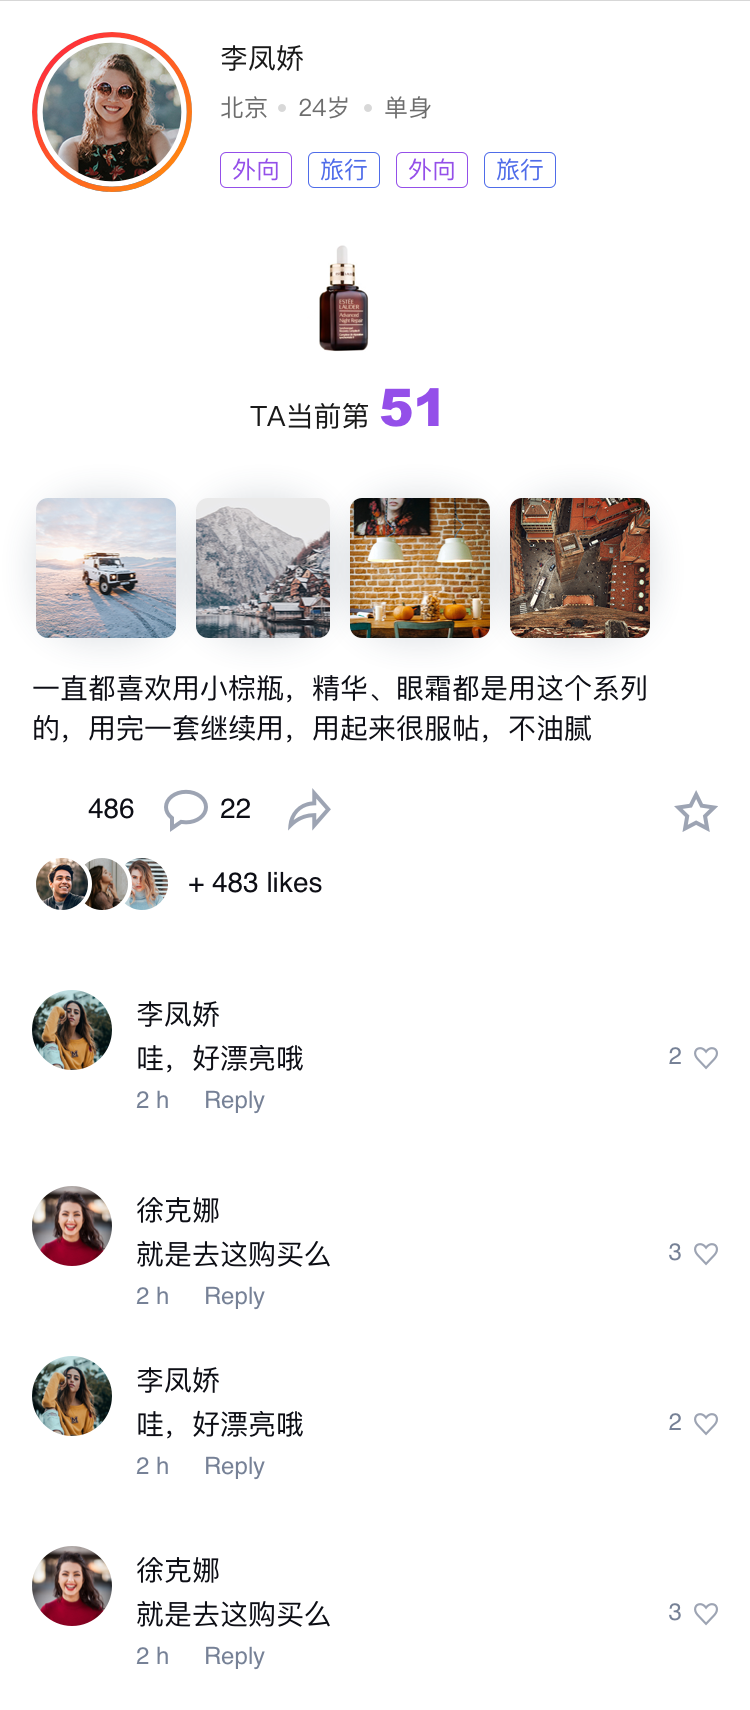
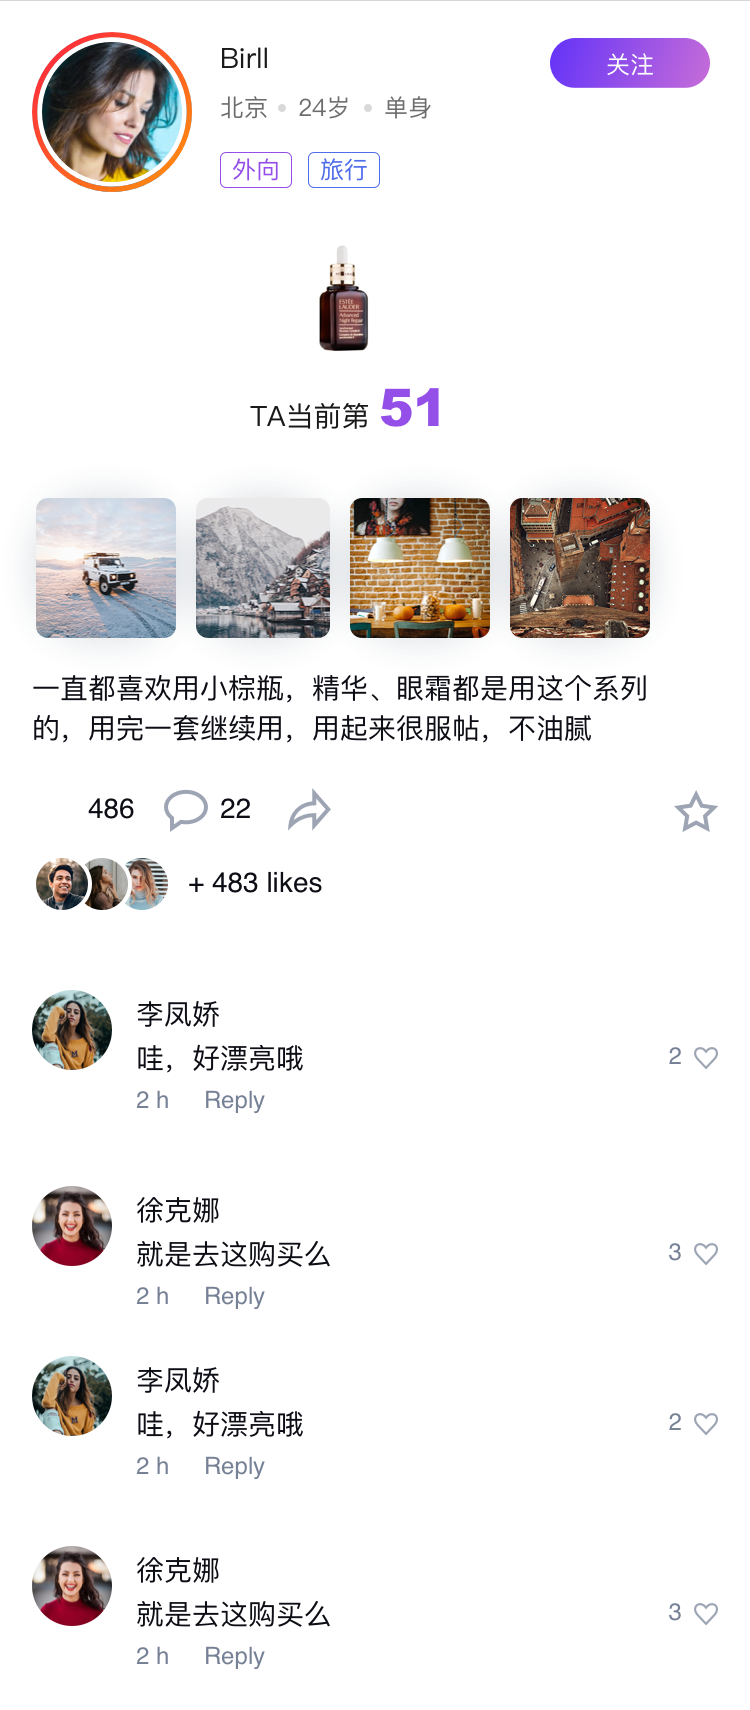
图片更换

diff --git a/src/views/components/concernList.vue b/src/views/components/concernList.vue
@@ -8,7 +8,7 @@
     >
       <div class="clearfix">
         <img
-          src="@/assets/Photo.png"
+          :src="item.head_img"
           style="border-radius: 50%"
           class="fl big-img"
           width="120px"
@@ -26,7 +26,7 @@
             <img
               v-for="(img,index) in item.imgs"
               :key="index"
-              src="@/assets/Photo.png"
+              :src="img"
               class="small-img"
             >
           </p>
@@ -44,7 +44,16 @@
 export default {
   data () {
     return {
-      items: [{ "activityId": 129, "add": "北京", "age": 47, "content": "good", "create": 1576944547088, "head_img": "adasda", "id": 966, "imgs": ["asdasda"], "inSimilar": 85.0, "interest": ["asdasda"], "likes": 25, "name": "Birll", "replies": 19, "sex": 0, "shopSimilar": 86.0, "skuId": 352, "userId": 940 }, { "activityId": 490, "add": "北京", "age": 19, "content": "good", "create": 1576944547088, "head_img": "adasda", "id": 408, "imgs": ["asdasda"], "inSimilar": 92.0, "interest": ["asdasda"], "likes": 32, "name": "Birll", "replies": 43, "sex": 0, "shopSimilar": 83.0, "skuId": 313, "userId": 811 }, { "activityId": 734, "add": "北京", "age": 8, "content": "good", "create": 1576944547088, "head_img": "adasda", "id": 443, "imgs": ["asdasda"], "inSimilar": 99.0, "interest": ["asdasda"], "likes": 12, "name": "Birll", "replies": 42, "sex": 0, "shopSimilar": 92.0, "skuId": 738, "userId": 529 }, { "activityId": 980, "add": "北京", "age": 30, "content": "good", "create": 1576944547088, "head_img": "adasda", "id": 601, "imgs": ["asdasda"], "inSimilar": 97.0, "interest": ["asdasda"], "likes": 47, "name": "Birll", "replies": 18, "sex": 0, "shopSimilar": 83.0, "skuId": 444, "userId": 486 }, { "activityId": 150, "add": "北京", "age": 49, "content": "good", "create": 1576944547088, "head_img": "adasda", "id": 463, "imgs": ["asdasda"], "inSimilar": 99.0, "interest": ["asdasda"], "likes": 39, "name": "Birll", "replies": 30, "sex": 0, "shopSimilar": 96.0, "skuId": 816, "userId": 469 }, { "activityId": 431, "add": "北京", "age": 33, "content": "good", "create": 1576944547088, "head_img": "adasda", "id": 264, "imgs": ["asdasda"], "inSimilar": 86.0, "interest": ["asdasda"], "likes": 49, "name": "Birll", "replies": 0, "sex": 0, "shopSimilar": 91.0, "skuId": 246, "userId": 827 }, { "activityId": 78, "add": "北京", "age": 6, "content": "good", "create": 1576944547088, "head_img": "adasda", "id": 355, "imgs": ["asdasda"], "inSimilar": 95.0, "interest": ["asdasda"], "likes": 22, "name": "Birll", "replies": 36, "sex": 0, "shopSimilar": 98.0, "skuId": 366, "userId": 645 }, { "activityId": 392, "add": "北京", "age": 9, "content": "good", "create": 1576944547088, "head_img": "adasda", "id": 49, "imgs": ["asdasda"], "inSimilar": 89.0, "interest": ["asdasda"], "likes": 6, "name": "Birll", "replies": 3, "sex": 0, "shopSimilar": 84.0, "skuId": 329, "userId": 465 }, { "activityId": 562, "add": "北京", "age": 49, "content": "good", "create": 1576944547088, "head_img": "adasda", "id": 652, "imgs": ["asdasda"], "inSimilar": 83.0, "interest": ["asdasda"], "likes": 43, "name": "Birll", "replies": 44, "sex": 0, "shopSimilar": 93.0, "skuId": 961, "userId": 703 }, { "activityId": 727, "add": "北京", "age": 19, "content": "good", "create": 1576944547088, "head_img": "adasda", "id": 150, "imgs": ["asdasda"], "inSimilar": 89.0, "interest": ["asdasda"], "likes": 38, "name": "Birll", "replies": 39, "sex": 0, "shopSimilar": 88.0, "skuId": 72, "userId": 797 }]
+      items: [{ "activityId": 129, "add": "北京", "age": 47, "content": "good", "create": 1576944547088, "head_img": "//img10.360buyimg.com/imgzone/jfs/t1/90627/37/7908/91546/5dff03e2E1f2f7cc5/6b0aaf8cc1fd65d8.png", "id": 966, "imgs": ["//img10.360buyimg.com/imgzone/jfs/t1/106722/5/7822/206462/5dfee79aE229c9e03/2f50b45685a2224e.png", "//img10.360buyimg.com/imgzone/jfs/t1/101916/29/7770/180838/5dfee799E939063ce/42c71f3752b6dc19.png"], "inSimilar": 85.0, "interest": ["外向", "旅行"], "likes": 25, "name": "Birll", "replies": 19, "sex": 0, "shopSimilar": 86.0, "skuId": 352, "userId": 940 },
+      { "activityId": 490, "add": "北京", "age": 19, "content": "good", "create": 1576944547088, "head_img": "//img10.360buyimg.com/imgzone/jfs/t1/108394/15/1587/78802/5dfee893E09503e3e/022a25ada3be68e1.png", "id": 408, "imgs": ["//img10.360buyimg.com/imgzone/jfs/t1/95093/28/7766/151753/5dfee798E02490680/72990afc50c1bd3c.png", "//img10.360buyimg.com/imgzone/jfs/t1/101916/29/7770/180838/5dfee799E939063ce/42c71f3752b6dc19.png"], "inSimilar": 92.0, "interest": ["外向", "旅行"], "likes": 32, "name": "Birll", "replies": 43, "sex": 0, "shopSimilar": 83.0, "skuId": 313, "userId": 811 },
+      { "activityId": 734, "add": "北京", "age": 8, "content": "good", "create": 1576944547088, "head_img": "//img10.360buyimg.com/imgzone/jfs/t1/108894/29/1624/96030/5dfee893E13a67a6c/2d16109919f23173.png", "id": 443, "imgs": ["//img10.360buyimg.com/imgzone/jfs/t1/106722/5/7822/206462/5dfee79aE229c9e03/2f50b45685a2224e.png", "//img10.360buyimg.com/imgzone/jfs/t1/101916/29/7770/180838/5dfee799E939063ce/42c71f3752b6dc19.png"], "inSimilar": 99.0, "interest": ["外向"], "likes": 12, "name": "Birll", "replies": 42, "sex": 0, "shopSimilar": 92.0, "skuId": 738, "userId": 529 },
+      { "activityId": 980, "add": "北京", "age": 30, "content": "good", "create": 1576944547088, "head_img": "//img10.360buyimg.com/imgzone/jfs/t1/108394/15/1587/78802/5dfee893E09503e3e/022a25ada3be68e1.png", "id": 601, "imgs": ["//img10.360buyimg.com/imgzone/jfs/t1/106722/5/7822/206462/5dfee79aE229c9e03/2f50b45685a2224e.png"], "inSimilar": 97.0, "interest": ["asdasda"], "likes": 47, "name": "Birll", "replies": 18, "sex": 0, "shopSimilar": 83.0, "skuId": 444, "userId": 486 },
+      { "activityId": 150, "add": "北京", "age": 49, "content": "good", "create": 1576944547088, "head_img": "//img10.360buyimg.com/imgzone/jfs/t1/90627/37/7908/91546/5dff03e2E1f2f7cc5/6b0aaf8cc1fd65d8.png", "id": 463, "imgs": ["//img10.360buyimg.com/imgzone/jfs/t1/102639/15/7723/206163/5dfee799Ebb832171/9ec51345ec2ec33f.png", "//img10.360buyimg.com/imgzone/jfs/t1/104453/34/7901/91677/5dfee798E28a5ae55/749f2f1be178f0f6.png"], "inSimilar": 99.0, "interest": ["外向", "旅行"], "likes": 39, "name": "Birll", "replies": 30, "sex": 0, "shopSimilar": 96.0, "skuId": 816, "userId": 469 },
+      { "activityId": 431, "add": "北京", "age": 33, "content": "good", "create": 1576944547088, "head_img": "//img10.360buyimg.com/imgzone/jfs/t1/108894/29/1624/96030/5dfee893E13a67a6c/2d16109919f23173.png", "id": 264, "imgs": ["//img10.360buyimg.com/imgzone/jfs/t1/104453/34/7901/91677/5dfee798E28a5ae55/749f2f1be178f0f6.png"], "inSimilar": 86.0, "interest": ["asdasda"], "likes": 49, "name": "Birll", "replies": 0, "sex": 0, "shopSimilar": 91.0, "skuId": 246, "userId": 827 },
+      { "activityId": 78, "add": "北京", "age": 6, "content": "good", "create": 1576944547088, "head_img": "//img10.360buyimg.com/imgzone/jfs/t1/108394/15/1587/78802/5dfee893E09503e3e/022a25ada3be68e1.png", "id": 355, "imgs": ["//img10.360buyimg.com/imgzone/jfs/t1/106722/5/7822/206462/5dfee79aE229c9e03/2f50b45685a2224e.png", "//img10.360buyimg.com/imgzone/jfs/t1/101916/29/7770/180838/5dfee799E939063ce/42c71f3752b6dc19.png"], "inSimilar": 95.0, "interest": ["外向", "旅行"], "likes": 22, "name": "Birll", "replies": 36, "sex": 0, "shopSimilar": 98.0, "skuId": 366, "userId": 645 },
+      { "activityId": 392, "add": "北京", "age": 9, "content": "good", "create": 1576944547088, "head_img": "//img10.360buyimg.com/imgzone/jfs/t1/108894/29/1624/96030/5dfee893E13a67a6c/2d16109919f23173.png", "id": 49, "imgs": ["//img10.360buyimg.com/imgzone/jfs/t1/101916/29/7770/180838/5dfee799E939063ce/42c71f3752b6dc19.png", "//img10.360buyimg.com/imgzone/jfs/t1/101916/29/7770/180838/5dfee799E939063ce/42c71f3752b6dc19.png"], "inSimilar": 89.0, "interest": ["asdasda"], "likes": 6, "name": "Birll", "replies": 3, "sex": 0, "shopSimilar": 84.0, "skuId": 329, "userId": 465 },
+      { "activityId": 562, "add": "北京", "age": 49, "content": "good", "create": 1576944547088, "head_img": "//img10.360buyimg.com/imgzone/jfs/t1/108394/15/1587/78802/5dfee893E09503e3e/022a25ada3be68e1.png", "id": 652, "imgs": ["//img10.360buyimg.com/imgzone/jfs/t1/104453/34/7901/91677/5dfee798E28a5ae55/749f2f1be178f0f6.png", "//img10.360buyimg.com/imgzone/jfs/t1/101916/29/7770/180838/5dfee799E939063ce/42c71f3752b6dc19.png"], "inSimilar": 83.0, "interest": ["asdasda"], "likes": 43, "name": "Birll", "replies": 44, "sex": 0, "shopSimilar": 93.0, "skuId": 961, "userId": 703 },
+      { "activityId": 727, "add": "北京", "age": 19, "content": "good", "create": 1576944547088, "head_img": "//img10.360buyimg.com/imgzone/jfs/t1/108894/29/1624/96030/5dfee893E13a67a6c/2d16109919f23173.png", "id": 150, "imgs": ["//img10.360buyimg.com/imgzone/jfs/t1/106722/5/7822/206462/5dfee79aE229c9e03/2f50b45685a2224e.png", "//img10.360buyimg.com/imgzone/jfs/t1/101916/29/7770/180838/5dfee799E939063ce/42c71f3752b6dc19.png"], "inSimilar": 89.0, "interest": ["asdasda"], "likes": 38, "name": "Birll", "replies": 39, "sex": 0, "shopSimilar": 88.0, "skuId": 72, "userId": 797 }]
     }
   },
   computed: {

diff --git a/src/views/components/homeList.vue b/src/views/components/homeList.vue
@@ -7,7 +7,7 @@
       @click="linkToDetail"
     >
       <img
-        src="@/assets/Photo.png"
+        :src="item.url"
         style="border-radius:4px"
         width="100%"
       >
@@ -42,7 +42,16 @@
 export default {
   data () {
     return {
-      items: [{ "isLike": false, "activityId": 171, "add": "北京", "age": 28, "content": "good", "create": 1576943657490, "head_img": "adasda", "id": 333, "imgs": ["asdasda"], "inSimilar": 85.0, "interest": ["asdasda"], "likes": 43, "name": "Birll", "replies": 28, "sex": 0, "shopSimilar": 93.0, "skuId": 849, "userId": 297 }, { "isLike": false, "activityId": 640, "add": "北京", "age": 40, "content": "good", "create": 1576943657490, "head_img": "adasda", "id": 136, "imgs": ["asdasda"], "inSimilar": 99.0, "interest": ["asdasda"], "likes": 18, "name": "Birll", "replies": 3, "sex": 0, "shopSimilar": 96.0, "skuId": 500, "userId": 316 }, { "isLike": false, "activityId": 264, "add": "北京", "age": 28, "content": "good", "create": 1576943657490, "head_img": "adasda", "id": 206, "imgs": ["asdasda"], "inSimilar": 94.0, "interest": ["asdasda"], "likes": 13, "name": "Birll", "replies": 11, "sex": 0, "shopSimilar": 90.0, "skuId": 217, "userId": 657 }, { "isLike": false, "activityId": 984, "add": "北京", "age": 25, "content": "good", "create": 1576943657490, "head_img": "adasda", "id": 209, "imgs": ["asdasda"], "inSimilar": 80.0, "interest": ["asdasda"], "likes": 29, "name": "Birll", "replies": 37, "sex": 0, "shopSimilar": 93.0, "skuId": 204, "userId": 135 }, { "isLike": false, "activityId": 459, "add": "北京", "age": 15, "content": "good", "create": 1576943657490, "head_img": "adasda", "id": 414, "imgs": ["asdasda"], "inSimilar": 83.0, "interest": ["asdasda"], "likes": 41, "name": "Birll", "replies": 33, "sex": 0, "shopSimilar": 90.0, "skuId": 134, "userId": 593 }, { "isLike": false, "activityId": 955, "add": "北京", "age": 2, "content": "good", "create": 1576943657490, "head_img": "adasda", "id": 539, "imgs": ["asdasda"], "inSimilar": 90.0, "interest": ["asdasda"], "likes": 47, "name": "Birll", "replies": 42, "sex": 0, "shopSimilar": 94.0, "skuId": 807, "userId": 753 }, { "isLike": false, "activityId": 347, "add": "北京", "age": 20, "content": "good", "create": 1576943657490, "head_img": "adasda", "id": 141, "imgs": ["asdasda"], "inSimilar": 96.0, "interest": ["asdasda"], "likes": 33, "name": "Birll", "replies": 25, "sex": 0, "shopSimilar": 92.0, "skuId": 761, "userId": 662 }, { "activityId": 61, "add": "北京", "age": 49, "content": "good", "create": 1576943657490, "head_img": "adasda", "id": 318, "imgs": ["asdasda"], "inSimilar": 94.0, "interest": ["asdasda"], "likes": 41, "name": "Birll", "replies": 48, "sex": 0, "shopSimilar": 87.0, "skuId": 951, "userId": 287 }, { "isLike": false, "activityId": 27, "add": "北京", "age": 20, "content": "good", "create": 1576943657490, "head_img": "adasda", "id": 221, "imgs": ["asdasda"], "inSimilar": 94.0, "interest": ["asdasda"], "likes": 14, "name": "Birll", "replies": 10, "sex": 0, "shopSimilar": 96.0, "skuId": 407, "userId": 603 }, { "activityId": 625, "add": "北京", "age": 26, "content": "good", "create": 1576943657490, "head_img": "adasda", "id": 325, "imgs": ["asdasda"], "inSimilar": 91.0, "interest": ["asdasda"], "likes": 27, "name": "Birll", "replies": 20, "sex": 0, "shopSimilar": 85.0, "skuId": 86, "userId": 504 }]
+      items: [{ "isLike": false, "activityId": 171, "add": "北京", "age": 28, "content": "good", "create": 1576943657490, "head_img": "adasda", "id": 333, "imgs": ["asdasda"], "inSimilar": 85.0, "interest": ["asdasda"], "likes": 43, "name": "Birll", "replies": 28, "sex": 0, "shopSimilar": 93.0, "skuId": 849, "userId": 297, "url": '//img10.360buyimg.com/imgzone/jfs/t1/106722/5/7822/206462/5dfee79aE229c9e03/2f50b45685a2224e.png' },
+      { "isLike": false, "activityId": 640, "add": "北京", "age": 40, "content": "good", "create": 1576943657490, "head_img": "adasda", "id": 136, "imgs": ["asdasda"], "inSimilar": 99.0, "interest": ["asdasda"], "likes": 18, "name": "Birll", "replies": 3, "sex": 0, "shopSimilar": 96.0, "skuId": 500, "userId": 316, "url": '//img10.360buyimg.com/imgzone/jfs/t1/93178/19/7823/227832/5dfee69cE86af7662/79509ed34e3bc3dc.png' },
+      { "isLike": false, "activityId": 264, "add": "北京", "age": 28, "content": "good", "create": 1576943657490, "head_img": "adasda", "id": 206, "imgs": ["asdasda"], "inSimilar": 94.0, "interest": ["asdasda"], "likes": 13, "name": "Birll", "replies": 11, "sex": 0, "shopSimilar": 90.0, "skuId": 217, "userId": 657, "url": '//img10.360buyimg.com/imgzone/jfs/t1/101835/38/7815/252413/5dfee69cE11694e32/d300fa4377236c82.png' },
+      { "isLike": false, "activityId": 984, "add": "北京", "age": 25, "content": "good", "create": 1576943657490, "head_img": "adasda", "id": 209, "imgs": ["asdasda"], "inSimilar": 80.0, "interest": ["asdasda"], "likes": 29, "name": "Birll", "replies": 37, "sex": 0, "shopSimilar": 93.0, "skuId": 204, "userId": 135, "url": '//img10.360buyimg.com/imgzone/jfs/t1/107417/23/1528/279237/5dfee69bE18c60d25/f86821c75cd0b73b.png' },
+      { "isLike": false, "activityId": 459, "add": "北京", "age": 15, "content": "good", "create": 1576943657490, "head_img": "adasda", "id": 414, "imgs": ["asdasda"], "inSimilar": 83.0, "interest": ["asdasda"], "likes": 41, "name": "Birll", "replies": 33, "sex": 0, "shopSimilar": 90.0, "skuId": 134, "userId": 593, "url": '//img10.360buyimg.com/imgzone/jfs/t1/101835/38/7815/252413/5dfee69cE11694e32/d300fa4377236c82.png' },
+      { "isLike": false, "activityId": 955, "add": "北京", "age": 2, "content": "good", "create": 1576943657490, "head_img": "adasda", "id": 539, "imgs": ["asdasda"], "inSimilar": 90.0, "interest": ["asdasda"], "likes": 47, "name": "Birll", "replies": 42, "sex": 0, "shopSimilar": 94.0, "skuId": 807, "userId": 753, "url": '//img10.360buyimg.com/imgzone/jfs/t1/101835/38/7815/252413/5dfee69cE11694e32/d300fa4377236c82.png' },
+      { "isLike": false, "activityId": 347, "add": "北京", "age": 20, "content": "good", "create": 1576943657490, "head_img": "adasda", "id": 141, "imgs": ["asdasda"], "inSimilar": 96.0, "interest": ["asdasda"], "likes": 33, "name": "Birll", "replies": 25, "sex": 0, "shopSimilar": 92.0, "skuId": 761, "userId": 662, "url": '//img10.360buyimg.com/imgzone/jfs/t1/99283/19/7805/212339/5dfee69bEa946af78/90f0b00fdabe5fbf.png' },
+      { "activityId": 61, "add": "北京", "age": 49, "content": "good", "create": 1576943657490, "head_img": "adasda", "id": 318, "imgs": ["asdasda"], "inSimilar": 94.0, "interest": ["asdasda"], "likes": 41, "name": "Birll", "replies": 48, "sex": 0, "shopSimilar": 87.0, "skuId": 951, "userId": 287, "url": '//img10.360buyimg.com/imgzone/jfs/t1/101835/38/7815/252413/5dfee69cE11694e32/d300fa4377236c82.png' },
+      { "isLike": false, "activityId": 27, "add": "北京", "age": 20, "content": "good", "create": 1576943657490, "head_img": "adasda", "id": 221, "imgs": ["asdasda"], "inSimilar": 94.0, "interest": ["asdasda"], "likes": 14, "name": "Birll", "replies": 10, "sex": 0, "shopSimilar": 96.0, "skuId": 407, "userId": 603, "url": '//img10.360buyimg.com/imgzone/jfs/t1/101835/38/7815/252413/5dfee69cE11694e32/d300fa4377236c82.png' },
+      { "activityId": 625, "add": "北京", "age": 26, "content": "good", "create": 1576943657490, "head_img": "adasda", "id": 325, "imgs": ["asdasda"], "inSimilar": 91.0, "interest": ["asdasda"], "likes": 27, "name": "Birll", "replies": 20, "sex": 0, "shopSimilar": 85.0, "skuId": 86, "userId": 504, "url": '//img10.360buyimg.com/imgzone/jfs/t1/95534/18/7835/129851/5dfee69aEaef3b6b2/9d317c1e510b7eec.png' }]
     }
   },
   computed: {

diff --git a/src/views/components/hotList.vue b/src/views/components/hotList.vue
@@ -7,7 +7,7 @@
       @click="linkToDetail"
     >
       <img
-        src="@/assets/Photo.png"
+        :src="item.url"
         width="100%"
         height="170px"
         style="border-radius: 4px"
@@ -27,7 +27,16 @@
 export default {
   data () {
     return {
-      items: [{ "contents": 9, "id": 882, "name": "Zero", "price": 21.0, "url": "adasd" }, { "contents": 53, "id": 37, "name": "Zero", "price": 286.0, "url": "adasd" }, { "contents": 79, "id": 972, "name": "Zero", "price": 155.0, "url": "adasd" }, { "contents": 21, "id": 701, "name": "Zero", "price": 26.0, "url": "adasd" }, { "contents": 46, "id": 569, "name": "Zero", "price": 430.0, "url": "adasd" }, { "contents": 37, "id": 481, "name": "Zero", "price": 68.0, "url": "adasd" }, { "contents": 82, "id": 683, "name": "Zero", "price": 572.0, "url": "adasd" }, { "contents": 16, "id": 272, "name": "Zero", "price": 728.0, "url": "adasd" }, { "contents": 41, "id": 713, "name": "Zero", "price": 530.0, "url": "adasd" }, { "contents": 77, "id": 865, "name": "Zero", "price": 607.0, "url": "adasd" }]
+      items: [{ "contents": 9, "id": 882, "name": "Zero", "price": 21.0, "url": "//img10.360buyimg.com/imgzone/jfs/t1/100273/13/7824/274562/5dff03e2Eaed1b705/e051f1dd195acee4.png" },
+      { "contents": 53, "id": 37, "name": "Zero", "price": 286.0, "url": "//img10.360buyimg.com/imgzone/jfs/t1/94402/8/7926/124807/5dff0371E5824fa65/679ba65b40e8a33a.png" },
+      { "contents": 79, "id": 972, "name": "Zero", "price": 155.0, "url": "//img10.360buyimg.com/imgzone/jfs/t1/108637/25/1596/102060/5dff0370E22e1a8d3/1ddc5dcd57d27505.png" },
+      { "contents": 21, "id": 701, "name": "Zero", "price": 26.0, "url": "//img10.360buyimg.com/imgzone/jfs/t1/104453/34/7901/91677/5dfee798E28a5ae55/749f2f1be178f0f6.png" },
+      { "contents": 46, "id": 569, "name": "Zero", "price": 430.0, "url": "//img10.360buyimg.com/imgzone/jfs/t1/108637/25/1596/102060/5dff0370E22e1a8d3/1ddc5dcd57d27505.png" },
+      { "contents": 37, "id": 481, "name": "Zero", "price": 68.0, "url": "//img10.360buyimg.com/imgzone/jfs/t1/92603/20/7828/202029/5dfee798Ef327c2d6/d75827afcdd38320.png" },
+      { "contents": 82, "id": 683, "name": "Zero", "price": 572.0, "url": "//img10.360buyimg.com/imgzone/jfs/t1/91798/11/7717/172103/5dff0370E87e9d7c5/b3b7188d1f104590.png" },
+      { "contents": 16, "id": 272, "name": "Zero", "price": 728.0, "url": "//img10.360buyimg.com/imgzone/jfs/t1/95093/28/7766/151753/5dfee798E02490680/72990afc50c1bd3c.png" },
+      { "contents": 41, "id": 713, "name": "Zero", "price": 530.0, "url": "//img10.360buyimg.com/imgzone/jfs/t1/100273/13/7824/274562/5dff03e2Eaed1b705/e051f1dd195acee4.png" },
+      { "contents": 77, "id": 865, "name": "Zero", "price": 607.0, "url": "//img10.360buyimg.com/imgzone/jfs/t1/108637/25/1596/102060/5dff0370E22e1a8d3/1ddc5dcd57d27505.png" }]
     }
   },
   computed: {
